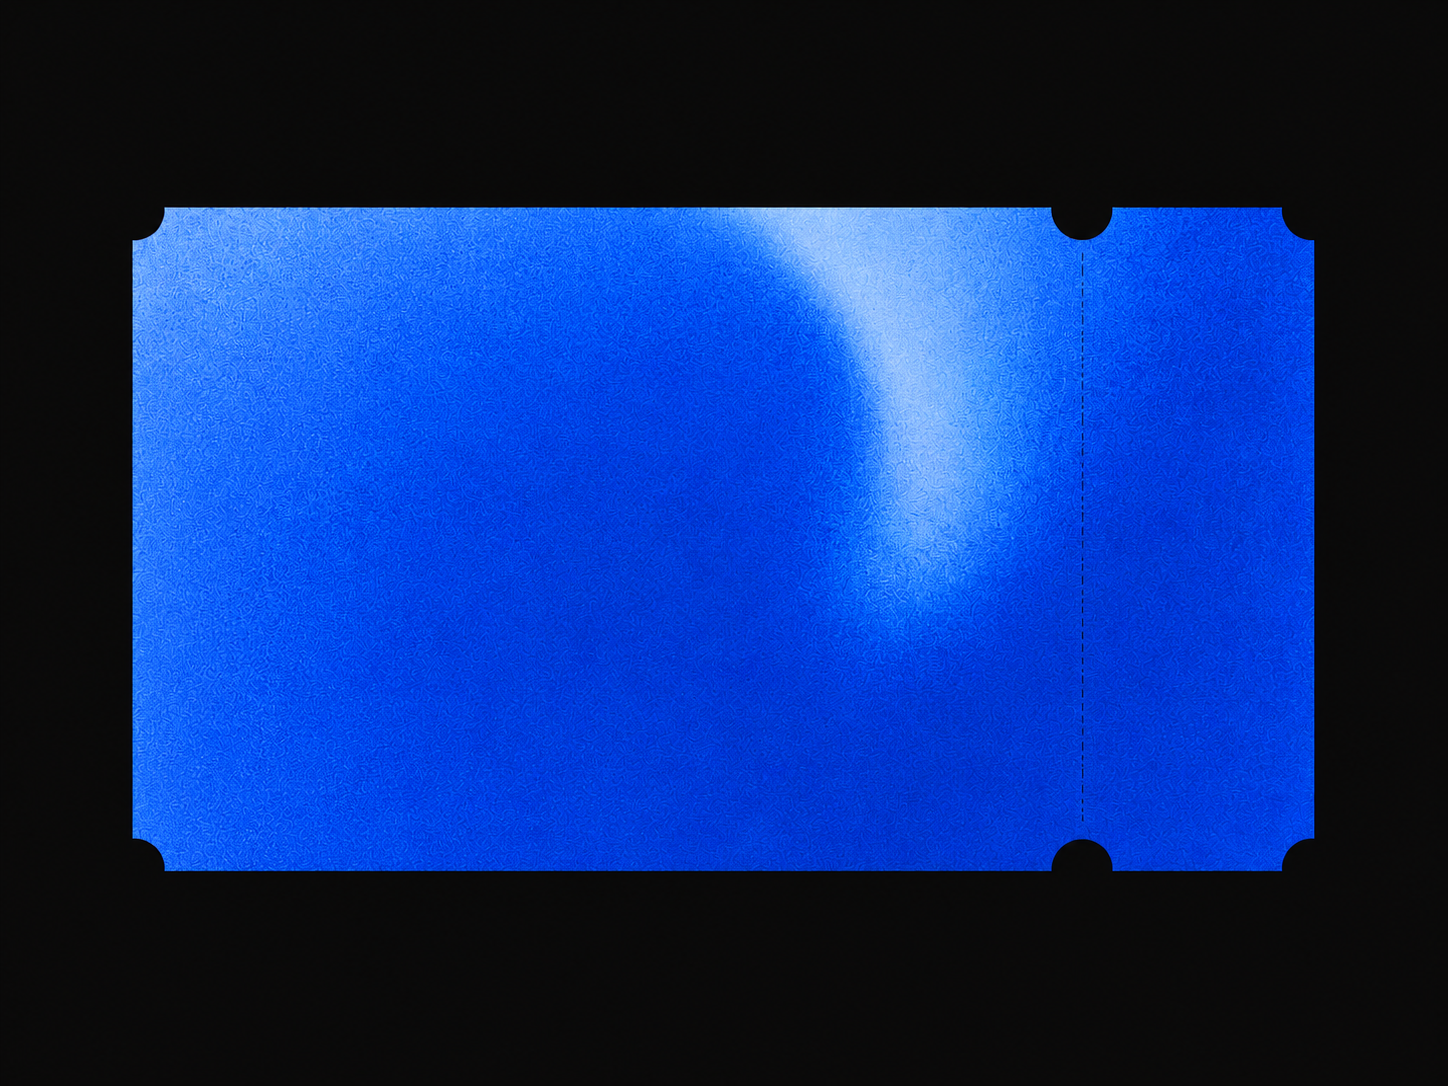
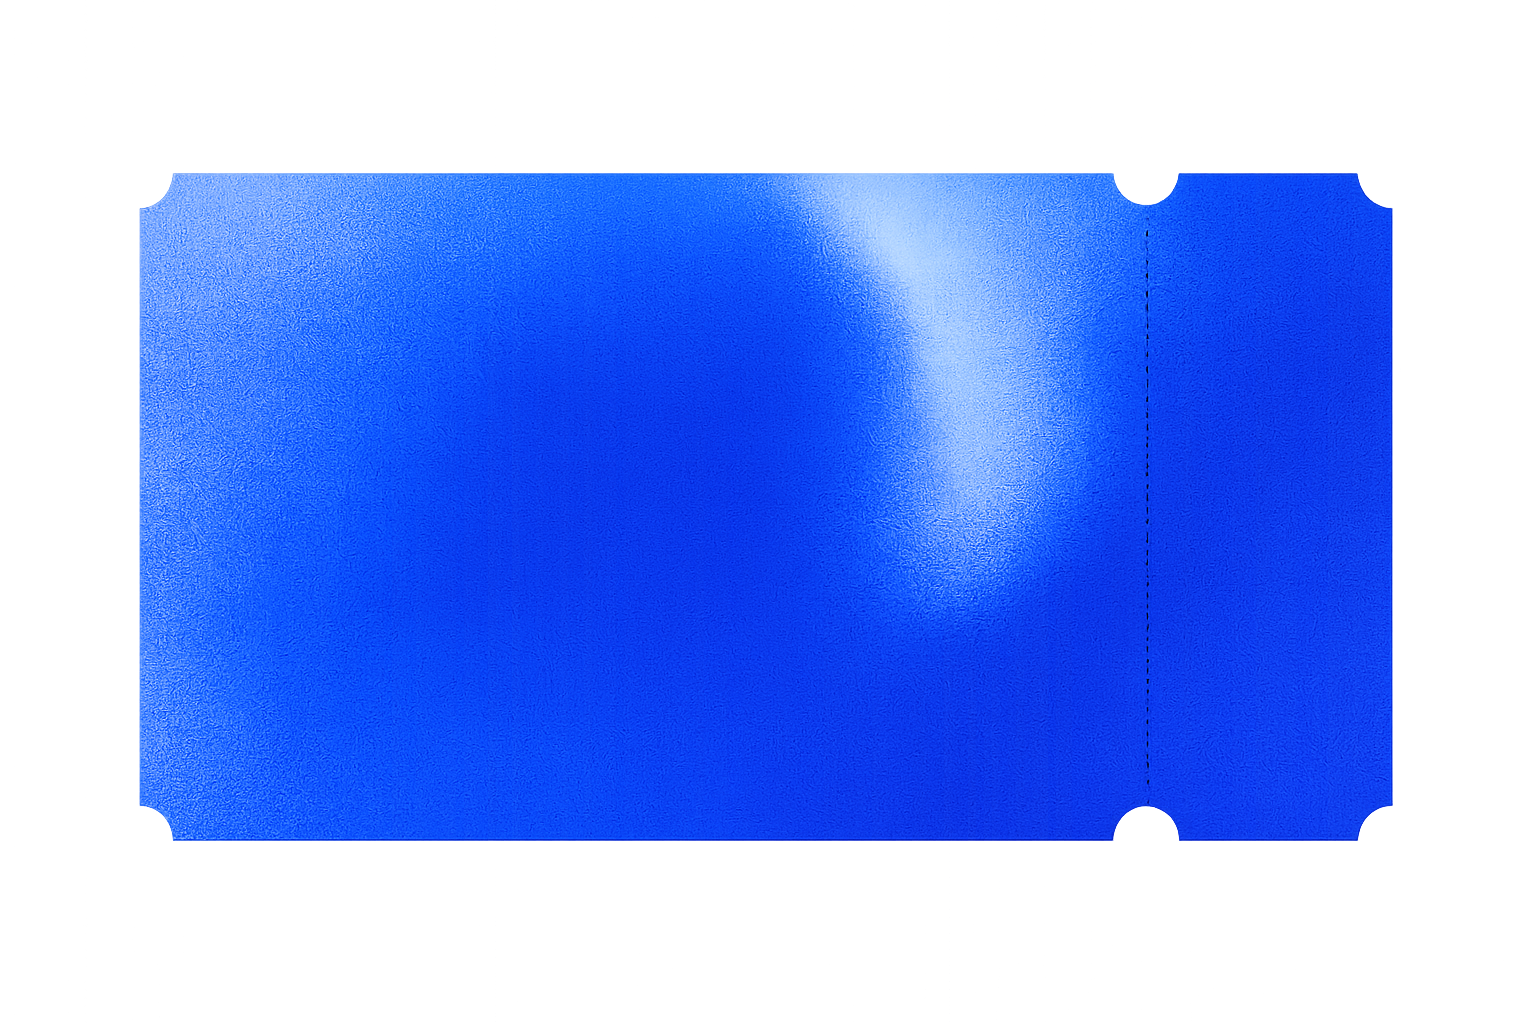
feat: update ticket images and fix text positioning
Replace ticket images and adjust padding for text positioning.

diff --git a/src/components/UI/VirtualIDCard/styles.ts b/src/components/UI/VirtualIDCard/styles.ts
@@ -83,8 +83,9 @@ export const TicketCard = styled.div<{ $ticketType?: 'solo' | 'team' }>`
 
 export const TicketContent = styled.div`
   flex: 1;
-  padding: 1.75rem 2rem;
-  padding-right: 110px;
+  padding: 2.5rem 2.5rem;
+  padding-left: 3rem;
+  padding-right: 120px;
   display: flex;
   flex-direction: column;
   justify-content: space-between;
@@ -95,8 +96,9 @@ export const TicketContent = styled.div`
   box-sizing: border-box;
 
   @media (max-width: 640px) {
-    padding: 1.25rem 1.5rem;
-    padding-right: 70px;
+    padding: 1.5rem;
+    padding-left: 1.75rem;
+    padding-right: 75px;
   }
 `;
 
@@ -130,30 +132,24 @@ export const EventTitle = styled.h1`
 `;
 
 export const ParticipantName = styled.h2`
-  font-size: clamp(1.125rem, 3.5vw, 1.875rem);
+  font-size: clamp(1rem, 3vw, 1.625rem);
   font-weight: 800;
   color: rgba(0, 0, 0, 0.95);
-  letter-spacing: -0.01em;
-  line-height: 0.95;
+  letter-spacing: -0.02em;
+  line-height: 1.1;
   margin: 0;
-  padding: 0.5rem 0;
+  padding: 0;
   word-break: break-word;
   overflow-wrap: break-word;
   hyphens: auto;
   max-width: 100%;
-  display: -webkit-box;
-  -webkit-line-clamp: 2;
-  -webkit-box-orient: vertical;
-  overflow: hidden;
-  text-overflow: ellipsis;
   flex: 1;
   display: flex;
   align-items: center;
 
   @media (max-width: 640px) {
-    font-size: clamp(0.875rem, 4vw, 1.125rem);
-    -webkit-line-clamp: 2;
-    line-height: 1;
+    font-size: clamp(0.75rem, 3.5vw, 1rem);
+    line-height: 1.15;
   }
 `;
 
